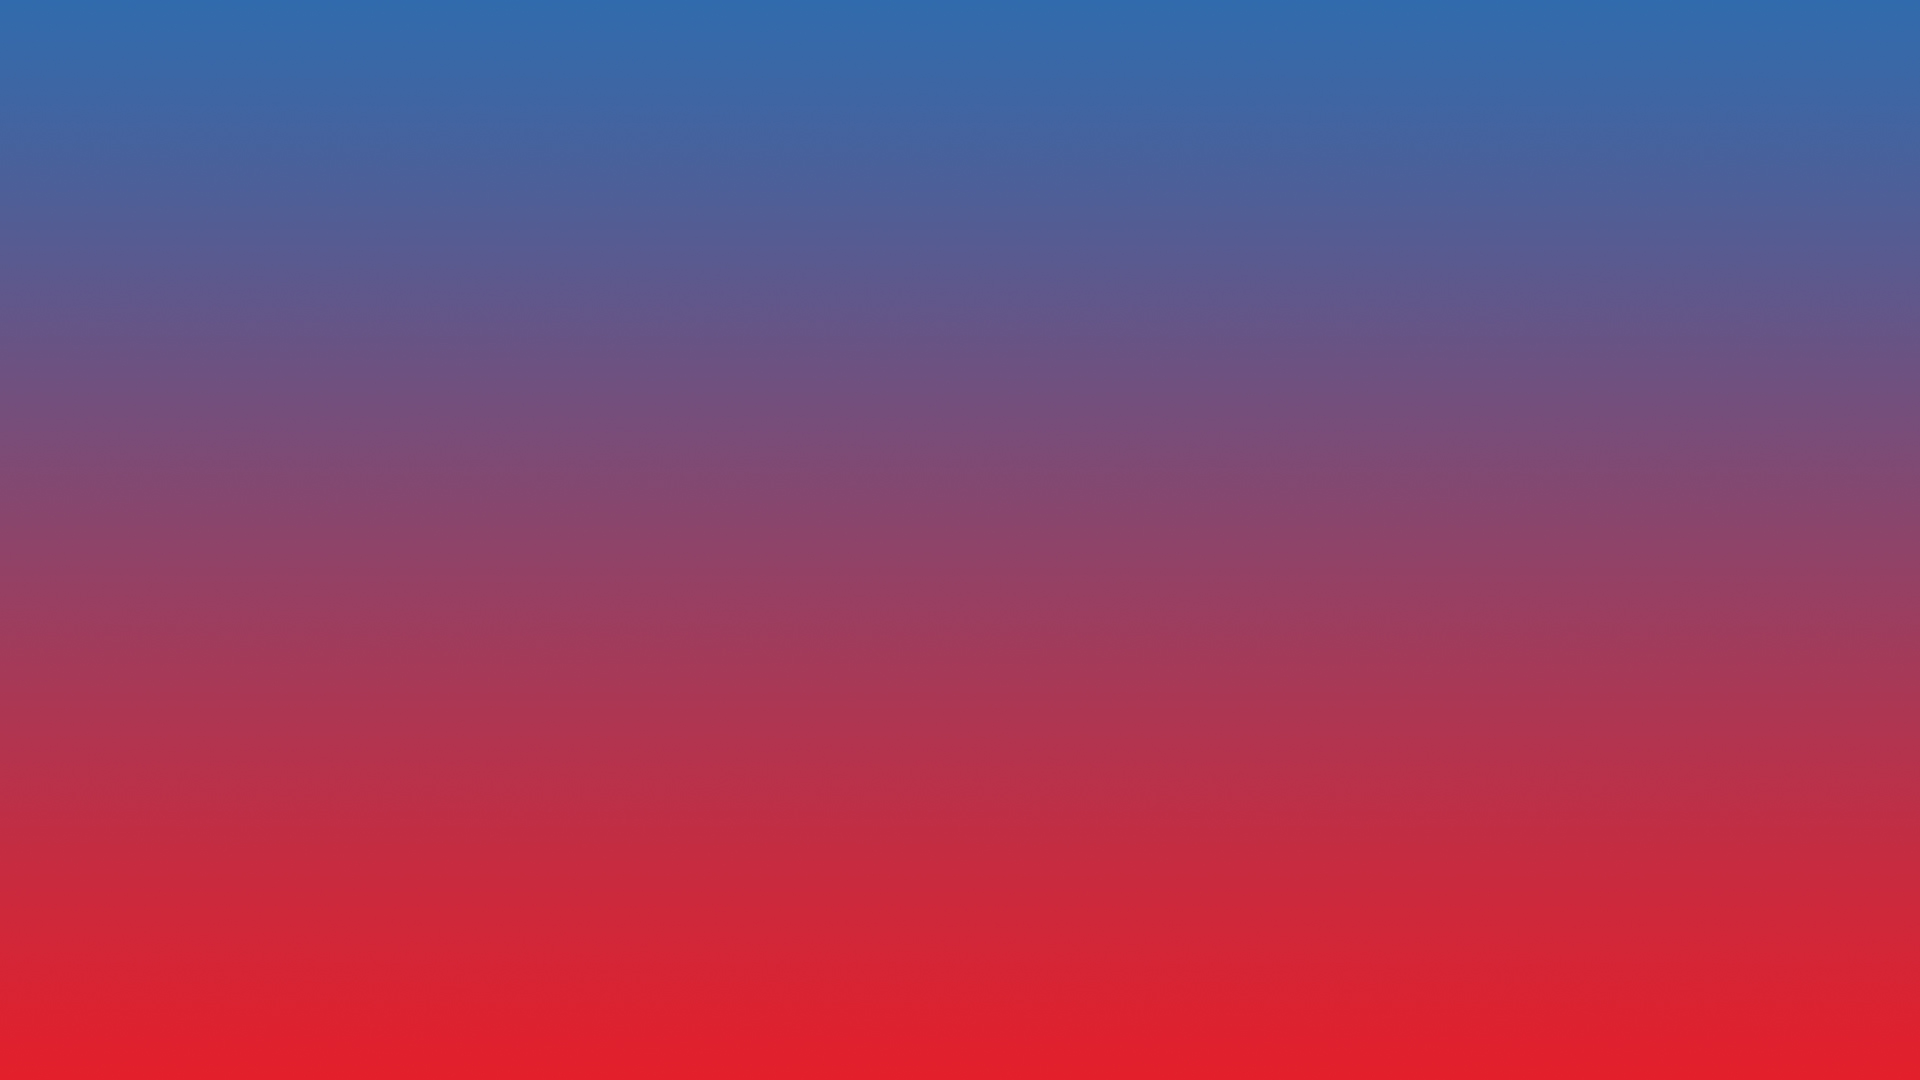
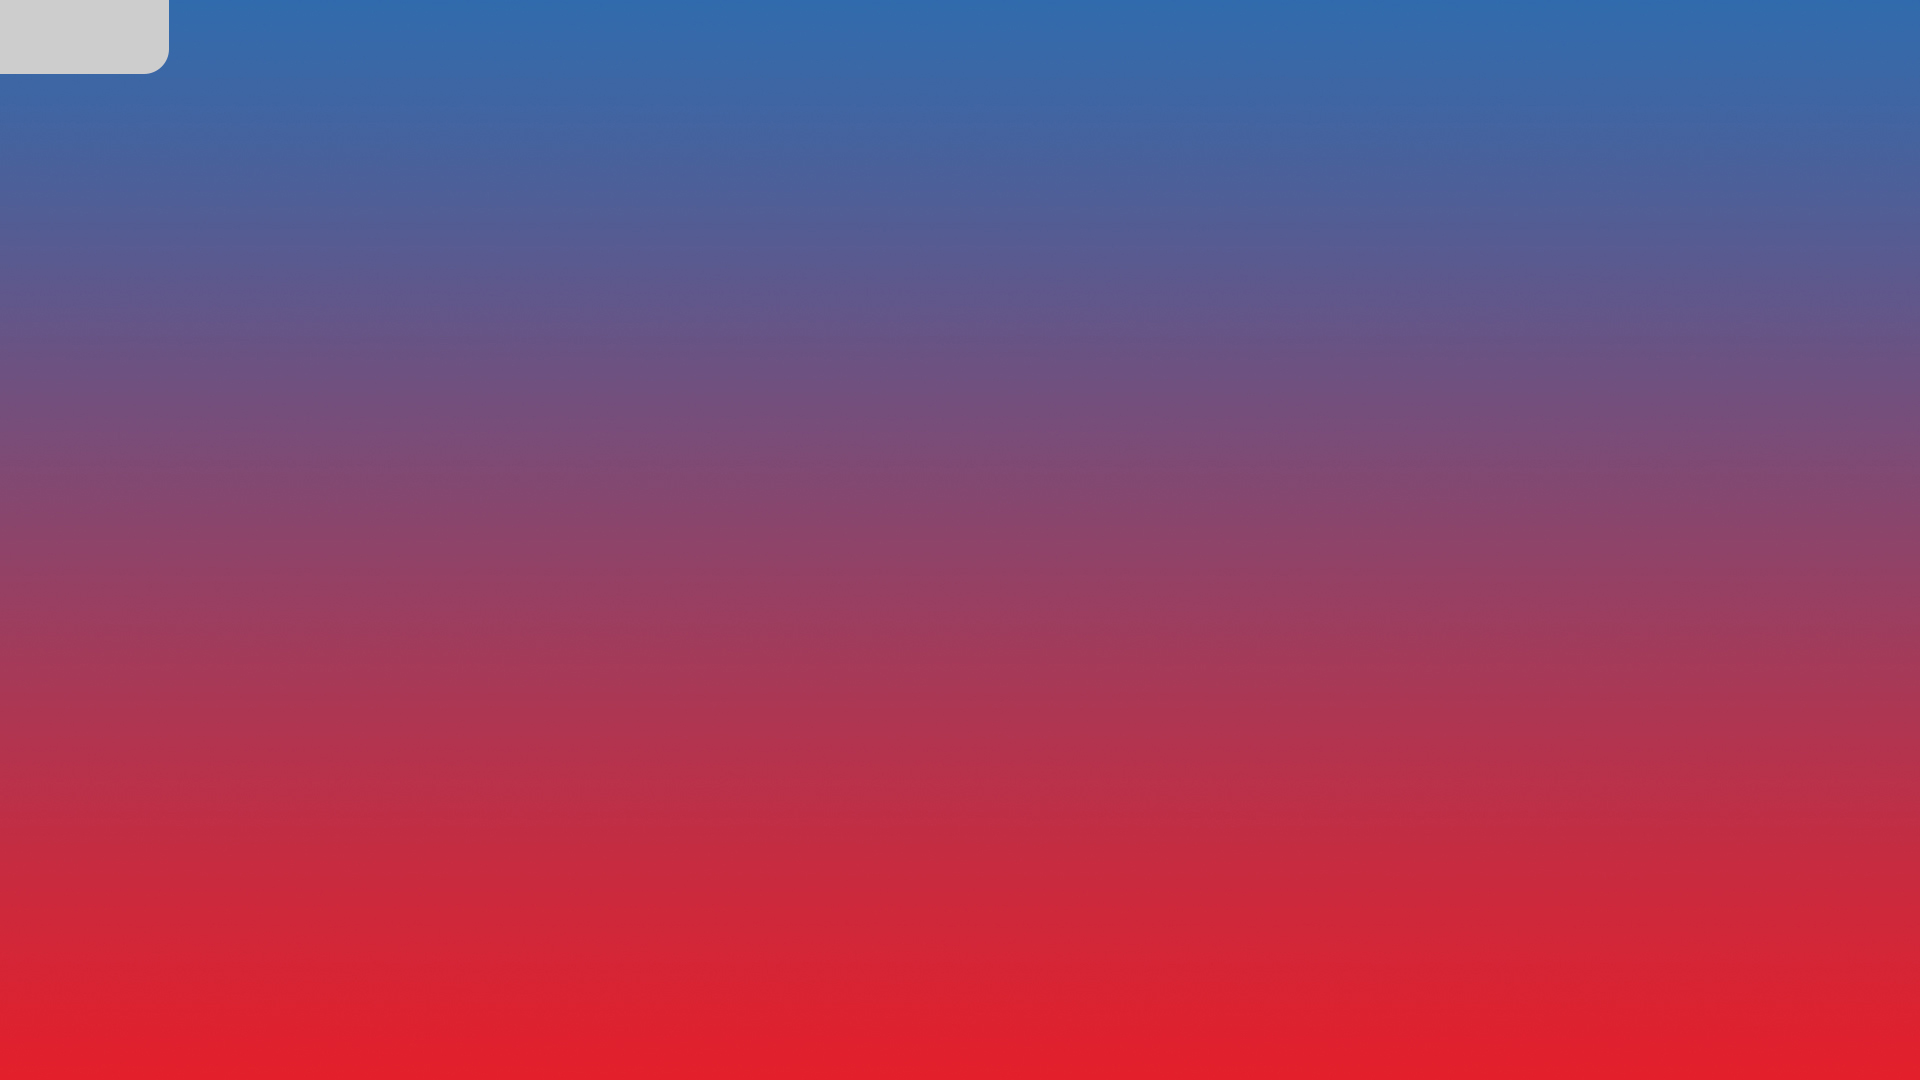
modification du style sheet de l'application pour prendre en compte lorsque la partie dure plus que 1 heure

Changed region(s): [[0.0, 0.0, 0.0938, 0.0917]]

diff --git a/ecran-DARTS/ihm.cpp b/ecran-DARTS/ihm.cpp
@@ -402,7 +402,7 @@ void Ihm::afficherNouvellePartie()
      ui->labelMoyenneVolees->setVisible(false);
      ui->lineScoreActuel->setVisible(false);
      ui->labelMoyenneVoleesStatistique->setVisible(false);
-
+     ui->ecranPartie->setStyleSheet("QWidget#ecranPartie{background-image:url(:/ressources/background.jpg);}");
      mettreAJourCible();
 
      // configurer la musique
@@ -493,6 +493,7 @@ void Ihm::afficherDureePartie()
     QTime dureeSeance = duree.addSecs(compteurDureePartie);
     if(compteurDureePartie >= 3600)
     {
+        ui->ecranPartie->setStyleSheet("QWidget#ecranPartie{background-image:url(:/ressources/backgroundHeure.jpg);}");
         ui->labelTempsPartie->setText(dureeSeance.toString("hh : mm : ss"));
         ui->tempsPartie->setText(dureeSeance.toString("hh : mm : ss"));
     }
